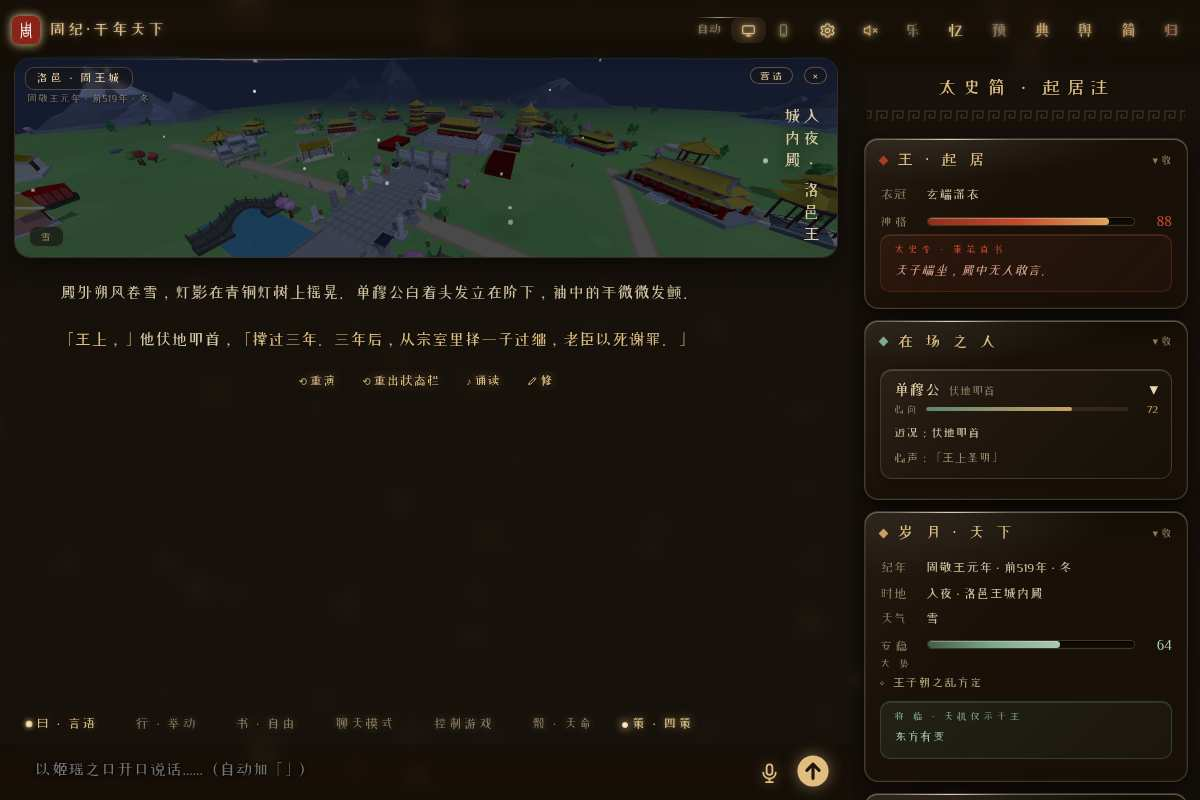
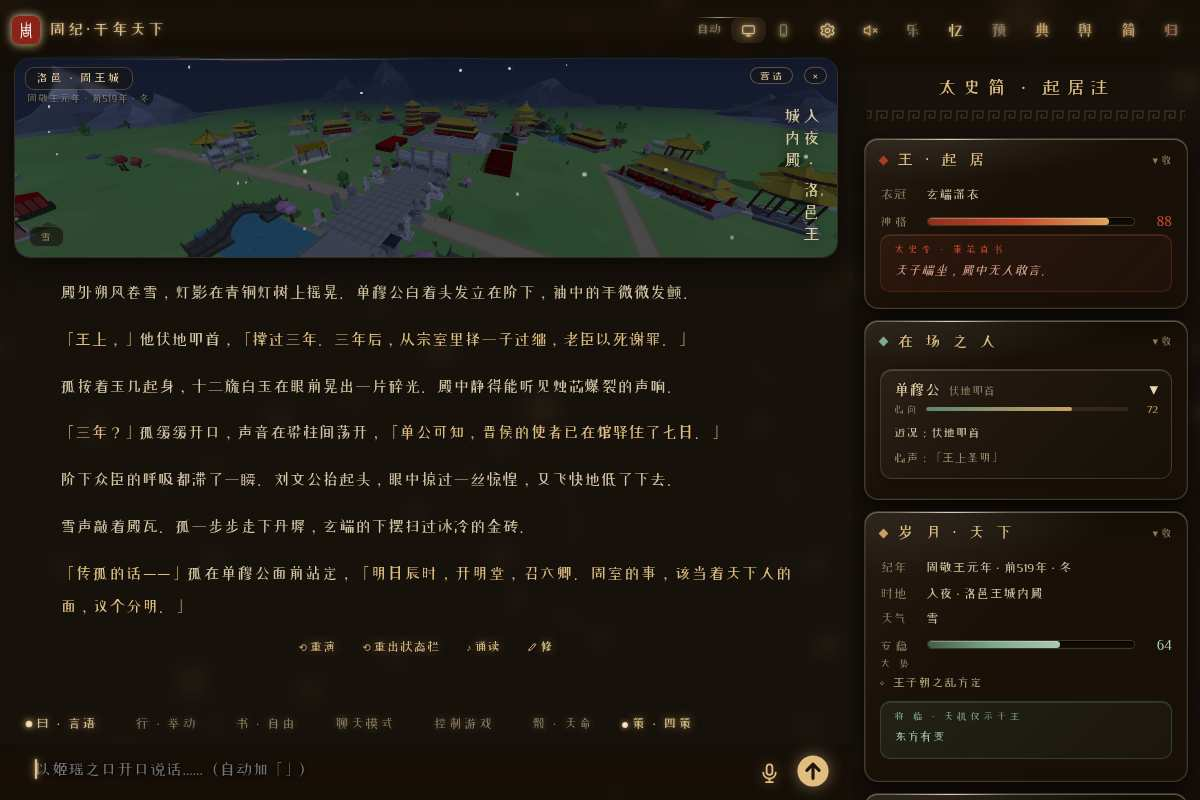
界面风格选择手机版重排：两卡并排整屏一眼看全零滚动；演示图重拍为满屏正文

diff --git a/zhouji.html b/zhouji.html
@@ -4211,18 +4211,25 @@ window.__zjTopIsleHtml=function(){
     +'<div style="flex:1;min-width:0;overflow:hidden;-webkit-mask-image:linear-gradient(90deg,transparent,#000 8%,#000 92%,transparent);mask-image:linear-gradient(90deg,transparent,#000 8%,#000 92%,transparent)"><div class="zjMarq" style="font-size:11px;letter-spacing:.16em;color:var(--gold2);font-family:var(--kai)"><span>'+esc(_er)+'</span><span aria-hidden="true">'+esc(_er)+'</span></div></div></div>';
 };
 /* 开局后的界面风格选择：两张演示图（电脑给电脑版、手机给手机版）+介绍，二选一；设置·显可随时更换 */
+/* 界面风格选择：手机也两卡并排（竖屏截图正好半宽放下），整屏一眼看全、零滚动；
+   图高用 100dvh-170px 兜底封顶（正常机型远达不到，纯保险），要点一行金字点出核心差异。 */
 function stylePickHtml(){
   var m=isMobile(),sfx=m?'m':'d';
-  return '<div id="zjStylePick" style="position:fixed;inset:0;z-index:90;background:rgba(8,6,4,.9);-webkit-backdrop-filter:blur(9px);backdrop-filter:blur(9px);display:flex;align-items:center;justify-content:center;padding:16px;overflow:auto">'
-    +'<div style="max-width:'+(m?'420px':'880px')+';width:100%">'
-    +'<div class="kai" style="text-align:center;font-size:22px;color:var(--gold2);letter-spacing:.22em;margin-bottom:6px;text-shadow:0 0 14px rgba(224,190,130,.4)">择 · 界面风格</div>'
-    +'<div style="text-align:center;font-size:12.5px;color:var(--mut);margin-bottom:16px">点选其一即入正文；之后可在 设置 · 显 随时更换</div>'
-    +'<div style="display:flex;gap:14px;'+(m?'flex-direction:column':'')+'">'
-    +[['glass','液态玻璃设计','经典全框界面：纪年胶囊·全屏键·选项与输入皆有玻璃框，结构一目了然'],['minimal','极简主义设计','无框柔光＋液态玻璃顶栏；适合小屏幕设备，上下文显示面积更大']].map(function(o){
-      return '<div class="btn zjHl" data-act="setStyle" data-style="'+o[0]+'" style="flex:1;cursor:pointer;border:1px solid rgba(224,190,130,.4);border-radius:16px;overflow:hidden;background:rgba(18,13,8,.72);box-shadow:0 10px 30px rgba(0,0,0,.5),inset 0 1px 0 rgba(255,242,214,.15)">'
-        +'<img src="core/res/uidemo_'+o[0]+'_'+sfx+'.jpg?v=1" style="width:100%;display:block;pointer-events:none" alt="">'
-        +'<div style="padding:12px 15px 14px"><div class="kai" style="font-size:16.5px;color:var(--gold2);letter-spacing:.15em">'+o[1]+'</div>'
-        +'<div style="font-size:12px;color:var(--mut2);line-height:1.75;margin-top:5px">'+o[2]+'</div></div></div>';}).join('')
+  var opts=[
+    ['glass','液态玻璃','框架分明|纪年胶囊|全屏按钮','经典全框界面：选项与输入皆有玻璃框，结构一目了然'],
+    ['minimal','极简主义','无框柔光|正文区更大|点正文即全屏','顶栏液态玻璃渐变，界面隐入正文；适合小屏幕设备']];
+  return '<div id="zjStylePick" style="position:fixed;inset:0;z-index:90;background:rgba(8,6,4,.92);-webkit-backdrop-filter:blur(9px);backdrop-filter:blur(9px);display:flex;align-items:center;justify-content:center;padding:'+(m?'10px':'16px')+';overflow:auto">'
+    +'<div style="max-width:'+(m?'560px':'880px')+';width:100%">'
+    +'<div class="kai" style="text-align:center;font-size:'+(m?'18px':'22px')+';color:var(--gold2);letter-spacing:.22em;margin-bottom:4px;text-shadow:0 0 14px rgba(224,190,130,.4)">择 · 界面风格</div>'
+    +'<div style="text-align:center;font-size:'+(m?'11px':'12.5px')+';color:var(--mut);margin-bottom:'+(m?'10px':'16px')+'">点选其一即入正文；之后可在 设置 · 显 随时更换</div>'
+    +'<div style="display:flex;gap:'+(m?'10px':'14px')+';align-items:stretch">'
+    +opts.map(function(o){
+      return '<div class="btn zjHl" data-act="setStyle" data-style="'+o[0]+'" style="flex:1;min-width:0;cursor:pointer;border:1px solid rgba(224,190,130,.4);border-radius:'+(m?'13px':'16px')+';overflow:hidden;background:rgba(18,13,8,.72);box-shadow:0 10px 30px rgba(0,0,0,.5),inset 0 1px 0 rgba(255,242,214,.15)">'
+        +'<img src="core/res/uidemo_'+o[0]+'_'+sfx+'.jpg?v=2" style="width:100%;display:block;pointer-events:none;max-height:calc(100vh - 170px);max-height:calc(100dvh - 170px);object-fit:cover;object-position:top" alt="">'
+        +'<div style="padding:'+(m?'9px 10px 11px':'12px 15px 14px')+'"><div class="kai" style="font-size:'+(m?'14.5px':'16.5px')+';color:var(--gold2);letter-spacing:.13em;white-space:nowrap">'+o[1]+'</div>'
+        +'<div style="font-size:'+(m?'10px':'11.5px')+';color:#d9b988;letter-spacing:.02em;line-height:1.6;margin-top:4px">'+o[2].split('|').map(function(p){return '<span style="white-space:nowrap">'+p+'</span>';}).join(' · ')+'</div>'
+        +(m?'':'<div style="font-size:12px;color:var(--mut2);line-height:1.75;margin-top:4px">'+o[3]+'</div>')
+        +'</div></div>';}).join('')
     +'</div></div></div>';
 }
 /* 正文 paddingTop 的滚动补偿式修改：正在读的行钉在原处；滚动余量不够的残余用 FLIP 平滑过渡。
